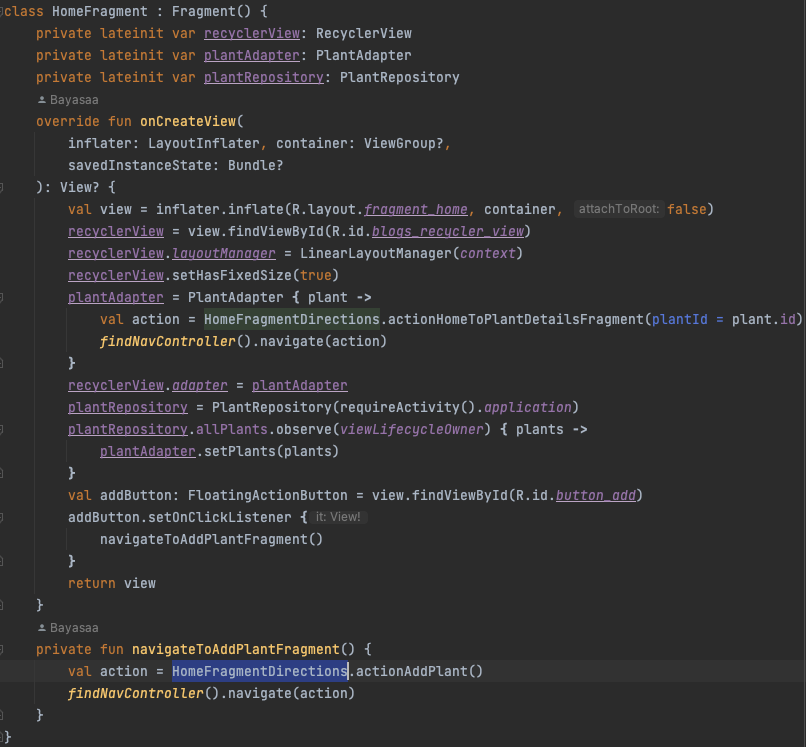
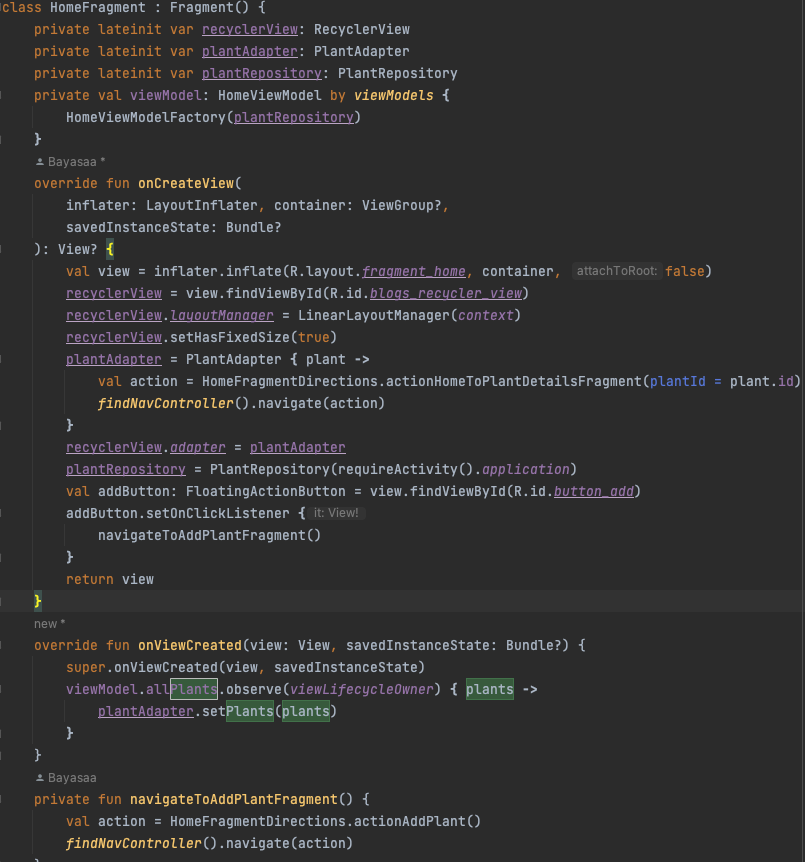
HomeViewModelFactory

diff --git a/GardeningJournalBayar/app/src/main/java/com/example/gardeningjournalbayar/HomeFragment.kt b/GardeningJournalBayar/app/src/main/java/com/example/gardeningjournalbayar/HomeFragment.kt
@@ -5,6 +5,7 @@ import androidx.fragment.app.Fragment
 import android.view.LayoutInflater
 import android.view.View
 import android.view.ViewGroup
+import androidx.fragment.app.viewModels
 import androidx.navigation.Navigation
 import androidx.navigation.fragment.findNavController
 import androidx.recyclerview.widget.LinearLayoutManager
@@ -16,6 +17,9 @@ class HomeFragment : Fragment() {
     private lateinit var recyclerView: RecyclerView
     private lateinit var plantAdapter: PlantAdapter
     private lateinit var plantRepository: PlantRepository
+    private val viewModel: HomeViewModel by viewModels {
+        HomeViewModelFactory(plantRepository)
+    }
     override fun onCreateView(
         inflater: LayoutInflater, container: ViewGroup?,
         savedInstanceState: Bundle?
@@ -30,18 +34,22 @@ class HomeFragment : Fragment() {
         }
         recyclerView.adapter = plantAdapter
         plantRepository = PlantRepository(requireActivity().application)
-        plantRepository.allPlants.observe(viewLifecycleOwner) { plants ->
-            plantAdapter.setPlants(plants)
-        }
         val addButton: FloatingActionButton = view.findViewById(R.id.button_add)
         addButton.setOnClickListener {
             navigateToAddPlantFragment()
         }
         return view
     }
+    override fun onViewCreated(view: View, savedInstanceState: Bundle?) {
+        super.onViewCreated(view, savedInstanceState)
+        viewModel.allPlants.observe(viewLifecycleOwner) { plants ->
+            plantAdapter.setPlants(plants)
+        }
+    }
     private fun navigateToAddPlantFragment() {
         val action = HomeFragmentDirections.actionAddPlant()
         findNavController().navigate(action)
     }
 }
+
 

diff --git a/GardeningJournalBayar/app/src/main/java/com/example/gardeningjournalbayar/HomeViewModelFactory.kt b/GardeningJournalBayar/app/src/main/java/com/example/gardeningjournalbayar/HomeViewModelFactory.kt
@@ -1,0 +1,15 @@
+package com.example.gardeningjournalbayar
+
+import androidx.lifecycle.ViewModel
+import androidx.lifecycle.ViewModelProvider
+import com.example.gardeningjournalbayar.data.PlantRepository
+
+class HomeViewModelFactory(private val plantRepository: PlantRepository) : ViewModelProvider.Factory {
+    override fun <T : ViewModel> create(modelClass: Class<T>): T {
+        if (modelClass.isAssignableFrom(HomeViewModel::class.java)) {
+            @Suppress("UNCHECKED_CAST")
+            return HomeViewModel(plantRepository) as T
+        }
+        throw IllegalArgumentException("Unknown ViewModel class")
+    }
+}

diff --git a/GardeningJournalBayar/app/src/main/java/com/example/gardeningjournalbayar/HomeViewModel.kt b/GardeningJournalBayar/app/src/main/java/com/example/gardeningjournalbayar/HomeViewModel.kt
@@ -1,0 +1,10 @@
+package com.example.gardeningjournalbayar
+
+import androidx.lifecycle.ViewModel
+import androidx.lifecycle.LiveData
+import com.example.gardeningjournalbayar.data.Plant
+import com.example.gardeningjournalbayar.data.PlantRepository
+
+class HomeViewModel(private val plantRepository: PlantRepository) : ViewModel() {
+    val allPlants: LiveData<List<Plant>> = plantRepository.allPlants
+}

diff --git a/GardeningJournalBayar/README.md b/GardeningJournalBayar/README.md
@@ -25,3 +25,7 @@
 ![ss8.png](ss8.png)
 # res/navigation/nav_graph.xml
 ![ss9.png](ss9.png)
+# HomeViewModelFactory
+![ss10.png](ss10.png)
+# HomeViewModel
+![ss11.png](ss11.png)
